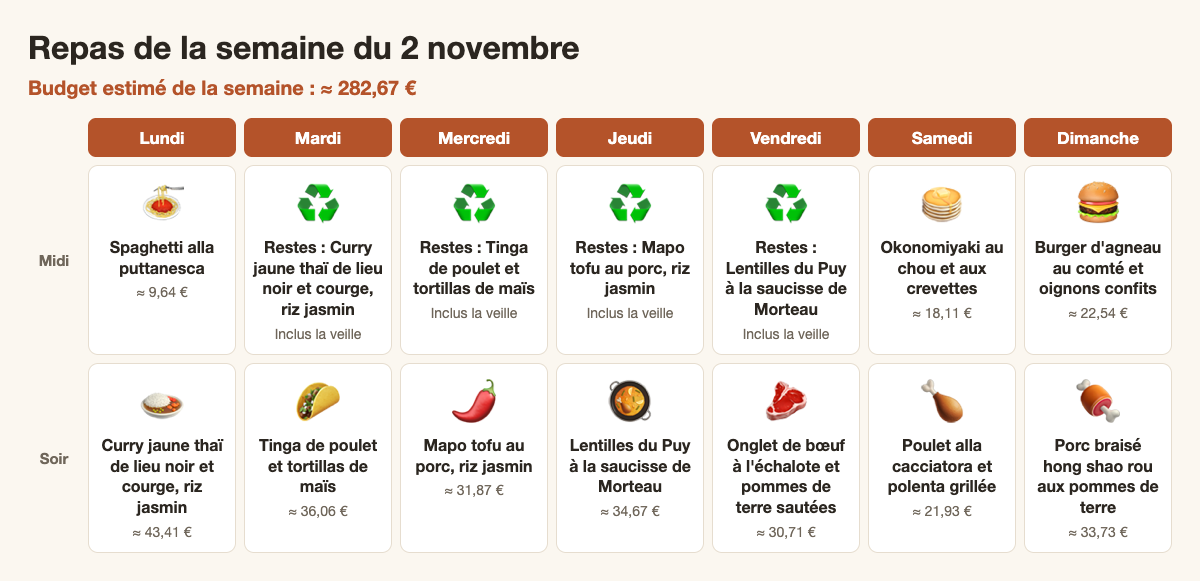
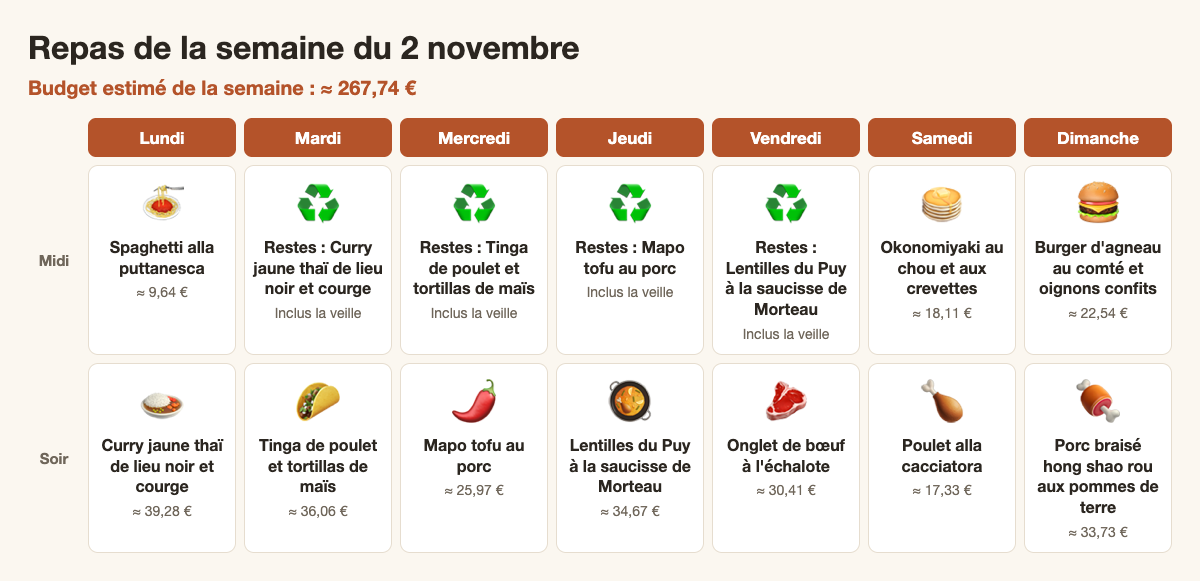
data: publication de 2026-W45

diff --git a/site/2026-W45/index.html b/site/2026-W45/index.html
@@ -4,7 +4,7 @@
 <meta charset="utf-8">
 <meta name="viewport" content="width=device-width, initial-scale=1">
 <meta name="robots" content="noindex">
-<meta name="miammiam-build" content="48275d968633">
+<meta name="miammiam-build" content="525a4e9f930c">
 <title>Semaine du 2 novembre</title>
 <style>
 :root { color-scheme: light dark; --bg: #fbf7f0; --card: #ffffff; --ink: #2b2620; --muted: #6f665a; --line: #e6ddcf; --accent: #b4532a; }
@@ -29,9 +29,9 @@ ul, ol { padding-left: 22px; margin: 6px 0; }
 <body><main><nav><a href="../">← Toutes les semaines</a></nav>
 <h1>Repas de la semaine du 2 novembre</h1>
 <img src="semaine.png" alt="Grille des repas de la semaine du 2 novembre">
-<div class="card"><strong>Budget de la semaine : ≈ 282,67 €</strong><br><strong>Courses à acheter : ≈ 267,88 €</strong><p class="meta">Prix estimés par Claude, à titre indicatif : ils varient selon le magasin.</p></div>
+<div class="card"><strong>Budget de la semaine : ≈ 267,74 €</strong><br><strong>Courses à acheter : ≈ 253,88 €</strong><p class="meta">Prix estimés par Claude, à titre indicatif : ils varient selon le magasin.</p></div>
 <h2 id="courses">Liste de courses</h2>
-<div class="card"><h3>Fruits et légumes</h3><ul><li>ail : 16 gousses (≈ 1,60 €)</li><li>betterave crue : 800 g (≈ 2,40 €)</li><li>brocoli : 1,2 kg (≈ 4,80 €)</li><li>carotte : 13 pièces (≈ 1,95 €)</li><li>céleri branche : 2 pièces (≈ 1,00 €)</li><li>chou chinois : 800 g (≈ 2,40 €)</li><li>chou pointu : 600 g (≈ 1,50 €)</li><li>chou rouge : 800 g (≈ 1,60 €)</li><li>citron vert : 8 pièces (≈ 3,20 €)</li><li>coriandre fraîche : 80 g (≈ 1,60 €)</li><li>courge butternut : 1,2 kg (≈ 3,60 €)</li><li>échalote : 6 pièces (≈ 1,50 €)</li><li>endive : 12 pièces (≈ 4,80 €)</li><li>fenouil : 3 pièces (≈ 3,60 €)</li><li>gingembre : 160 g (≈ 1,60 €)</li><li>oignon : 12 pièces (≈ 2,40 €)</li><li>oignon nouveau : 16 pièces (≈ 2,40 €)</li><li>orange : 5 pièces (≈ 2,50 €)</li><li>pak choï : 1,2 kg (≈ 6,00 €)</li><li>panais : 600 g (≈ 2,40 €)</li><li>pomme de terre : 2,6 kg (≈ 3,90 €)</li><li>romarin frais : 5 g (≈ 0,50 €)</li><li>roquette : 50 g (≈ 1,25 €)</li></ul><h3>Viandes et poissons</h3><ul><li>agneau haché : 600 g (≈ 12,00 €)</li><li>blanc de poulet : 1,4 kg (≈ 19,60 €)</li><li>cuisse de poulet : 4 pièces (≈ 10,00 €)</li><li>filet de lieu noir : 1,4 kg (≈ 25,20 €)</li><li>poitrine de porc : 1,6 kg (≈ 19,20 €)</li><li>porc haché : 500 g (≈ 5,50 €)</li><li>saucisse de morteau : 3 pièces (≈ 21,00 €)</li></ul><h3>Produits laitiers</h3><ul><li>beurre : 130 g (≈ 1,56 €)</li><li>comté : 120 g (≈ 2,16 €)</li><li>crème fraîche : 25 cl (≈ 1,00 €)</li><li>fromage blanc : 100 g (≈ 0,40 €)</li><li>œuf : 4 pièces (≈ 1,20 €)</li></ul><h3>Épicerie</h3><ul><li>bâton de cannelle : 1 pièce (≈ 0,30 €)</li><li>bonite séchée : 10 g (≈ 1,50 €)</li><li>bouillon de volaille : 80 cl (≈ 0,80 €)</li><li>cacahuète : 100 g (≈ 0,80 €)</li><li>cumin moulu : 1 c. à café (≈ 0,10 €)</li><li>dashi en poudre : 1 c. à café (≈ 0,30 €)</li><li>étoile de badiane : 3 pièces (≈ 0,60 €)</li><li>fécule de maïs : 3 c. à soupe (≈ 0,15 €)</li><li>feuille de laurier : 2 pièces (≈ 0,10 €)</li><li>graine de fenouil : 1 c. à café (≈ 0,10 €)</li><li>graine de sésame : 4 c. à soupe (≈ 0,60 €)</li><li>lait de coco : 80 cl (≈ 3,20 €)</li><li>lentille verte du puy : 800 g (≈ 4,00 €)</li><li>mayonnaise : 4 c. à soupe (≈ 0,40 €)</li><li>miel : 5 c. à soupe (≈ 1,25 €)</li><li>moutarde : 5 c. à soupe (≈ 0,50 €)</li><li>olive noire : 80 g (≈ 0,96 €)</li><li>origan séché : 3 c. à café (≈ 0,30 €)</li><li>pâte de curry jaune : 120 g (≈ 2,40 €)</li><li>pâte de miso : 3 c. à soupe (≈ 0,90 €)</li><li>pâte de piment doubanjiang : 6 c. à soupe (≈ 1,50 €)</li><li>piment chipotle en adobo : 100 g (≈ 3,00 €)</li><li>poivre de sichuan : 2 c. à café (≈ 0,60 €)</li><li>polenta instantanée : 250 g (≈ 1,25 €)</li><li>riz jasmin : 1,28 kg (≈ 3,84 €)</li><li>sauce okonomiyaki : 8 c. à soupe (≈ 2,40 €)</li><li>sauce poisson : 5 c. à soupe (≈ 0,50 €)</li><li>sauce soja : 13 c. à soupe (≈ 1,30 €)</li><li>thym séché : 2 c. à café (≈ 0,20 €)</li><li>tofu ferme : 1,6 kg (≈ 12,80 €)</li><li>tomate concassée en boîte : 1,6 kg (≈ 3,20 €)</li><li>tortilla de maïs : 24 pièces (≈ 4,80 €)</li><li>vin de shaoxing : 15 cl (≈ 1,80 €)</li><li>vinaigre de vin : 2 c. à soupe (≈ 0,06 €)</li><li>vinaigre noir : 3 c. à soupe (≈ 0,45 €)</li></ul><h3>Surgelés</h3><ul><li>crevette décortiquée : 400 g (≈ 7,20 €)</li></ul><h3>Boulangerie</h3><ul><li>pain à burger : 4 pièces (≈ 2,00 €)</li></ul><h3>Boissons</h3><ul><li>vin blanc : 15 cl (≈ 1,20 €)</li><li>vin rouge : 10 cl (≈ 0,80 €)</li></ul><h3>Boucher (à acheter vendredi)</h3><ul><li>onglet de bœuf : 800 g (≈ 22,40 €)</li></ul><h3>À vérifier au placard</h3><ul><li>ail</li><li>anchois à l'huile</li><li>câpre</li><li>farine</li><li>huile d'olive</li><li>huile neutre</li><li>olive noire</li><li>paprika fumé</li><li>piment en flocons</li><li>pois chiche en boîte</li><li>poivre</li><li>sel</li><li>spaghetti</li><li>sucre</li><li>tomate concassée en boîte</li></ul></div>
+<div class="card"><h3>Fruits et légumes</h3><ul><li>ail : 16 gousses (≈ 1,60 €)</li><li>betterave crue : 800 g (≈ 2,40 €)</li><li>carotte : 13 pièces (≈ 1,95 €)</li><li>céleri branche : 2 pièces (≈ 1,00 €)</li><li>chou pointu : 600 g (≈ 1,50 €)</li><li>chou rouge : 800 g (≈ 1,60 €)</li><li>citron vert : 6 pièces (≈ 2,40 €)</li><li>coriandre fraîche : 80 g (≈ 1,60 €)</li><li>courge butternut : 1,2 kg (≈ 3,60 €)</li><li>échalote : 6 pièces (≈ 1,50 €)</li><li>endive : 12 pièces (≈ 4,80 €)</li><li>gingembre : 160 g (≈ 1,60 €)</li><li>oignon : 12 pièces (≈ 2,40 €)</li><li>oignon nouveau : 16 pièces (≈ 2,40 €)</li><li>orange : 4 pièces (≈ 2,00 €)</li><li>pak choï : 1,2 kg (≈ 6,00 €)</li><li>panais : 1 kg (≈ 4,00 €)</li><li>pomme de terre : 1,6 kg (≈ 2,40 €)</li><li>romarin frais : 5 g (≈ 0,50 €)</li><li>roquette : 50 g (≈ 1,25 €)</li></ul><h3>Viandes et poissons</h3><ul><li>agneau haché : 600 g (≈ 12,00 €)</li><li>blanc de poulet : 1,4 kg (≈ 19,60 €)</li><li>cuisse de poulet : 4 pièces (≈ 10,00 €)</li><li>filet de lieu noir : 1,4 kg (≈ 25,20 €)</li><li>poitrine de porc : 1,6 kg (≈ 19,20 €)</li><li>porc haché : 500 g (≈ 5,50 €)</li><li>saucisse de morteau : 3 pièces (≈ 21,00 €)</li></ul><h3>Produits laitiers</h3><ul><li>beurre : 130 g (≈ 1,56 €)</li><li>comté : 120 g (≈ 2,16 €)</li><li>crème fraîche : 25 cl (≈ 1,00 €)</li><li>fromage blanc : 100 g (≈ 0,40 €)</li><li>œuf : 4 pièces (≈ 1,20 €)</li></ul><h3>Épicerie</h3><ul><li>bâton de cannelle : 1 pièce (≈ 0,30 €)</li><li>bonite séchée : 10 g (≈ 1,50 €)</li><li>bouillon de volaille : 80 cl (≈ 0,80 €)</li><li>cumin moulu : 1 c. à café (≈ 0,10 €)</li><li>dashi en poudre : 1 c. à café (≈ 0,30 €)</li><li>étoile de badiane : 3 pièces (≈ 0,60 €)</li><li>fécule de maïs : 3 c. à soupe (≈ 0,15 €)</li><li>feuille de laurier : 2 pièces (≈ 0,10 €)</li><li>graine de sésame : 1 c. à soupe (≈ 0,15 €)</li><li>lait de coco : 80 cl (≈ 3,20 €)</li><li>lentille verte du puy : 800 g (≈ 4,00 €)</li><li>mayonnaise : 4 c. à soupe (≈ 0,40 €)</li><li>miel : 5 c. à soupe (≈ 1,25 €)</li><li>moutarde : 5 c. à soupe (≈ 0,50 €)</li><li>olive noire : 80 g (≈ 0,96 €)</li><li>origan séché : 3 c. à café (≈ 0,30 €)</li><li>pâte de curry jaune : 120 g (≈ 2,40 €)</li><li>pâte de miso : 3 c. à soupe (≈ 0,90 €)</li><li>pâte de piment doubanjiang : 6 c. à soupe (≈ 1,50 €)</li><li>piment chipotle en adobo : 100 g (≈ 3,00 €)</li><li>poivre de sichuan : 2 c. à café (≈ 0,60 €)</li><li>polenta instantanée : 250 g (≈ 1,25 €)</li><li>riz jasmin : 1,28 kg (≈ 3,84 €)</li><li>sauce okonomiyaki : 8 c. à soupe (≈ 2,40 €)</li><li>sauce poisson : 4 c. à soupe (≈ 0,40 €)</li><li>sauce soja : 12 c. à soupe (≈ 1,20 €)</li><li>thym séché : 2 c. à café (≈ 0,20 €)</li><li>tofu ferme : 1,6 kg (≈ 12,80 €)</li><li>tomate concassée en boîte : 1,6 kg (≈ 3,20 €)</li><li>tortilla de maïs : 24 pièces (≈ 4,80 €)</li><li>vin de shaoxing : 15 cl (≈ 1,80 €)</li><li>vinaigre de vin : 2 c. à soupe (≈ 0,06 €)</li></ul><h3>Surgelés</h3><ul><li>crevette décortiquée : 400 g (≈ 7,20 €)</li></ul><h3>Boulangerie</h3><ul><li>pain à burger : 4 pièces (≈ 2,00 €)</li></ul><h3>Boissons</h3><ul><li>vin blanc : 15 cl (≈ 1,20 €)</li><li>vin rouge : 10 cl (≈ 0,80 €)</li></ul><h3>Boucher (à acheter vendredi)</h3><ul><li>onglet de bœuf : 800 g (≈ 22,40 €)</li></ul><h3>À vérifier au placard</h3><ul><li>ail</li><li>anchois à l'huile</li><li>câpre</li><li>farine</li><li>huile d'olive</li><li>huile neutre</li><li>olive noire</li><li>paprika fumé</li><li>piment en flocons</li><li>pois chiche en boîte</li><li>poivre</li><li>sel</li><li>spaghetti</li><li>sucre</li><li>tomate concassée en boîte</li></ul></div>
 <h2>Lundi</h2><article class="recipe">
 <h3>🍝 Spaghetti alla puttanesca</h3>
 <p class="meta">Midi · Cuisine italienne · 25 min · 4 personnes</p>
@@ -40,14 +40,14 @@ ul, ol { padding-left: 22px; margin: 6px 0; }
 <strong>Ingrédients</strong><ul><li>spaghetti : 400 g (≈ 0,80 €)</li><li>tomate concassée en boîte : 800 g (≈ 1,60 €)</li><li>anchois à l'huile : 50 g (≈ 2,00 €)</li><li>olive noire : 120 g (≈ 1,44 €)</li><li>câpre : 2 c. à soupe (≈ 0,50 €)</li><li>ail : 3 gousses (≈ 0,30 €)</li><li>piment en flocons : 1 c. à café (≈ 0,15 €)</li><li>pois chiche en boîte : 480 g (≈ 1,44 €)</li><li>paprika fumé : 2 c. à café (≈ 0,40 €)</li><li>huile d'olive : 5 c. à soupe (≈ 1,00 €)</li><li>sel : 1 c. à café (≈ 0,01 €)</li></ul>
 <strong>Préparation</strong><ol><li>Préchauffer le four à 220 °C. Égoutter et sécher les pois chiches, les mélanger avec 2 c. à soupe d'huile d'olive, le paprika fumé et une pincée de sel, puis les enfourner 20 minutes sur une plaque, en les remuant à mi-cuisson.</li><li>Porter à ébullition une grande casserole d'eau salée.</li><li>Dans une sauteuse, chauffer 3 c. à soupe d'huile d'olive avec l'ail émincé, le piment et les anchois, 2 minutes, jusqu'à ce que les anchois fondent.</li><li>Ajouter les tomates, les olives coupées en deux et les câpres, puis laisser mijoter 12 minutes à feu moyen.</li><li>Cuire les spaghetti al dente, les égoutter en gardant une louche d'eau de cuisson, puis les finir 1 minute dans la sauce, en détendant avec un peu de cette eau.</li><li>Servir avec les pois chiches croustillants à côté.</li></ol>
 </article><article class="recipe">
-<h3>🍛 Curry jaune thaï de lieu noir et courge, riz jasmin</h3>
+<h3>🍛 Curry jaune thaï de lieu noir et courge</h3>
 <p class="meta">Soir · Cuisine thaïe · 30 min · 8 portions, dont 4 pour les restes</p>
-<p><strong>Accompagnement :</strong> Chou chinois mariné au citron vert et aux cacahuètes</p>
-<p><strong>Prix du repas : ≈ 43,41 €</strong></p>
-<strong>Ingrédients</strong><ul><li>filet de lieu noir : 1,4 kg (≈ 25,20 €)</li><li>courge butternut : 1,2 kg (≈ 3,60 €)</li><li>oignon : 2 pièces (≈ 0,40 €)</li><li>pâte de curry jaune : 120 g (≈ 2,40 €)</li><li>lait de coco : 80 cl (≈ 3,20 €)</li><li>sauce poisson : 5 c. à soupe (≈ 0,50 €)</li><li>sucre : 50 g (≈ 0,08 €)</li><li>citron vert : 5 pièces (≈ 2,00 €)</li><li>coriandre fraîche : 40 g (≈ 0,80 €)</li><li>riz jasmin : 640 g (≈ 1,92 €)</li><li>chou chinois : 800 g (≈ 2,40 €)</li><li>cacahuète : 100 g (≈ 0,80 €)</li><li>huile neutre : 2 c. à soupe (≈ 0,10 €)</li><li>sel : 1 c. à café (≈ 0,01 €)</li></ul>
-<strong>Préparation</strong><ol><li>Émincer finement le chou chinois. Le mélanger avec le jus de 2 citrons verts, 20 g de sucre, 1 c. à soupe de sauce poisson et les cacahuètes concassées, puis réserver au frais.</li><li>Cuire le riz jasmin selon le paquet (environ 12 minutes).</li><li>Éplucher la courge et la couper en cubes de 2 cm. Émincer les oignons.</li><li>Dans une grande cocotte, faire revenir les oignons 3 minutes dans l'huile, puis ajouter la pâte de curry et remuer 1 minute.</li><li>Verser le lait de coco, 200 ml d'eau, le reste de sauce poisson et 30 g de sucre. Ajouter la courge et cuire 12 minutes à frémissement.</li><li>Ajouter le lieu noir coupé en gros morceaux et cuire 5 minutes sans trop remuer. Finir avec le jus de 3 citrons verts et la coriandre.</li><li>Servir 4 portions avec le riz et le chou, et garder 4 portions au frais pour le lendemain midi.</li></ol>
+<p><strong>Accompagnement :</strong> Riz jasmin</p>
+<p><strong>Prix du repas : ≈ 39,28 €</strong></p>
+<strong>Ingrédients</strong><ul><li>filet de lieu noir : 1,4 kg (≈ 25,20 €)</li><li>courge butternut : 1,2 kg (≈ 3,60 €)</li><li>oignon : 2 pièces (≈ 0,40 €)</li><li>pâte de curry jaune : 120 g (≈ 2,40 €)</li><li>lait de coco : 80 cl (≈ 3,20 €)</li><li>sauce poisson : 4 c. à soupe (≈ 0,40 €)</li><li>sucre : 30 g (≈ 0,05 €)</li><li>citron vert : 3 pièces (≈ 1,20 €)</li><li>coriandre fraîche : 40 g (≈ 0,80 €)</li><li>riz jasmin : 640 g (≈ 1,92 €)</li><li>huile neutre : 2 c. à soupe (≈ 0,10 €)</li><li>sel : 1 c. à café (≈ 0,01 €)</li></ul>
+<strong>Préparation</strong><ol><li>Cuire le riz jasmin selon le paquet (environ 12 minutes).</li><li>Éplucher la courge et la couper en cubes de 2 cm. Émincer les oignons.</li><li>Dans une grande cocotte, faire revenir les oignons 3 minutes dans l'huile, puis ajouter la pâte de curry et remuer 1 minute.</li><li>Verser le lait de coco, 200 ml d'eau, la sauce poisson et le sucre. Ajouter la courge et cuire 12 minutes à frémissement.</li><li>Ajouter le lieu noir coupé en gros morceaux et cuire 5 minutes sans trop remuer. Finir avec le jus de 3 citrons verts et la coriandre.</li><li>Servir 4 portions avec le riz, et garder 4 portions au frais pour le lendemain midi.</li></ol>
 </article><h2>Mardi</h2><article class="recipe">
-<h3>♻ Restes : Curry jaune thaï de lieu noir et courge, riz jasmin</h3>
+<h3>♻ Restes : Curry jaune thaï de lieu noir et courge</h3>
 <p class="meta">Midi · Restes du lundi soir, à réchauffer</p>
 </article><article class="recipe">
 <h3>🌮 Tinga de poulet et tortillas de maïs</h3>
@@ -60,14 +60,14 @@ ul, ol { padding-left: 22px; margin: 6px 0; }
 <h3>♻ Restes : Tinga de poulet et tortillas de maïs</h3>
 <p class="meta">Midi · Restes du mardi soir, à réchauffer</p>
 </article><article class="recipe">
-<h3>🌶 Mapo tofu au porc, riz jasmin</h3>
+<h3>🌶 Mapo tofu au porc</h3>
 <p class="meta">Soir · Cuisine chinoise · 30 min · 8 portions, dont 4 pour les restes</p>
-<p><strong>Accompagnement :</strong> Brocoli rôti au sésame et au vinaigre noir</p>
-<p><strong>Prix du repas : ≈ 31,87 €</strong></p>
-<strong>Ingrédients</strong><ul><li>tofu ferme : 1,6 kg (≈ 12,80 €)</li><li>porc haché : 500 g (≈ 5,50 €)</li><li>pâte de piment doubanjiang : 6 c. à soupe (≈ 1,50 €)</li><li>ail : 6 gousses (≈ 0,60 €)</li><li>gingembre : 60 g (≈ 0,60 €)</li><li>oignon nouveau : 6 pièces (≈ 0,90 €)</li><li>poivre de Sichuan : 2 c. à café (≈ 0,60 €)</li><li>bouillon de volaille : 80 cl (≈ 0,80 €)</li><li>fécule de maïs : 3 c. à soupe (≈ 0,15 €)</li><li>sauce soja : 5 c. à soupe (≈ 0,50 €)</li><li>riz jasmin : 640 g (≈ 1,92 €)</li><li>brocoli : 1,2 kg (≈ 4,80 €)</li><li>graine de sésame : 3 c. à soupe (≈ 0,45 €)</li><li>vinaigre noir : 3 c. à soupe (≈ 0,45 €)</li><li>huile neutre : 6 c. à soupe (≈ 0,30 €)</li></ul>
-<strong>Préparation</strong><ol><li>Préchauffer le four à 220 °C. Détailler le brocoli en fleurettes, les mélanger avec 2 c. à soupe d'huile et les rôtir 18 minutes.</li><li>Cuire le riz jasmin selon le paquet. Couper le tofu en cubes de 2 cm. Hacher l'ail et le gingembre, et émincer les oignons nouveaux.</li><li>Faire griller le poivre de Sichuan 1 minute à sec, puis le moudre.</li><li>Dans un grand wok, chauffer 4 c. à soupe d'huile et faire dorer le porc 5 minutes. Ajouter le doubanjiang, l'ail et le gingembre, et remuer 1 minute.</li><li>Verser le bouillon et 4 c. à soupe de sauce soja, ajouter le tofu et laisser frémir 8 minutes sans trop remuer.</li><li>Délayer la fécule dans 4 c. à soupe d'eau froide, l'ajouter et laisser épaissir 1 minute. Finir avec le poivre de Sichuan et les oignons nouveaux.</li><li>Arroser le brocoli du vinaigre noir et de 1 c. à soupe de sauce soja, et le parsemer de sésame. Servir 4 portions et garder 4 portions pour le lendemain midi.</li></ol>
+<p><strong>Accompagnement :</strong> Riz jasmin</p>
+<p><strong>Prix du repas : ≈ 25,97 €</strong></p>
+<strong>Ingrédients</strong><ul><li>tofu ferme : 1,6 kg (≈ 12,80 €)</li><li>porc haché : 500 g (≈ 5,50 €)</li><li>pâte de piment doubanjiang : 6 c. à soupe (≈ 1,50 €)</li><li>ail : 6 gousses (≈ 0,60 €)</li><li>gingembre : 60 g (≈ 0,60 €)</li><li>oignon nouveau : 6 pièces (≈ 0,90 €)</li><li>poivre de Sichuan : 2 c. à café (≈ 0,60 €)</li><li>bouillon de volaille : 80 cl (≈ 0,80 €)</li><li>fécule de maïs : 3 c. à soupe (≈ 0,15 €)</li><li>sauce soja : 4 c. à soupe (≈ 0,40 €)</li><li>riz jasmin : 640 g (≈ 1,92 €)</li><li>huile neutre : 4 c. à soupe (≈ 0,20 €)</li></ul>
+<strong>Préparation</strong><ol><li>Cuire le riz jasmin selon le paquet. Couper le tofu en cubes de 2 cm. Hacher l'ail et le gingembre, et émincer les oignons nouveaux.</li><li>Faire griller le poivre de Sichuan 1 minute à sec, puis le moudre.</li><li>Dans un grand wok, chauffer 4 c. à soupe d'huile et faire dorer le porc 5 minutes. Ajouter le doubanjiang, l'ail et le gingembre, et remuer 1 minute.</li><li>Verser le bouillon et 4 c. à soupe de sauce soja, ajouter le tofu et laisser frémir 8 minutes sans trop remuer.</li><li>Délayer la fécule dans 4 c. à soupe d'eau froide, l'ajouter et laisser épaissir 1 minute. Finir avec le poivre de Sichuan et les oignons nouveaux.</li><li>Servir 4 portions avec le riz, et garder 4 portions au frais pour le lendemain midi.</li></ol>
 </article><h2>Jeudi</h2><article class="recipe">
-<h3>♻ Restes : Mapo tofu au porc, riz jasmin</h3>
+<h3>♻ Restes : Mapo tofu au porc</h3>
 <p class="meta">Midi · Restes du mercredi soir, à réchauffer</p>
 </article><article class="recipe">
 <h3>🥘 Lentilles du Puy à la saucisse de Morteau</h3>
@@ -80,12 +80,12 @@ ul, ol { padding-left: 22px; margin: 6px 0; }
 <h3>♻ Restes : Lentilles du Puy à la saucisse de Morteau</h3>
 <p class="meta">Midi · Restes du jeudi soir, à réchauffer</p>
 </article><article class="recipe">
-<h3>🥩 Onglet de bœuf à l'échalote et pommes de terre sautées</h3>
+<h3>🥩 Onglet de bœuf à l'échalote</h3>
 <p class="meta">Soir · Cuisine française · 30 min · 4 personnes</p>
 <p><strong>Accompagnement :</strong> Panais rôtis au miel et au thym</p>
-<p><strong>Prix du repas : ≈ 30,71 €</strong></p>
-<strong>Ingrédients</strong><ul><li>onglet de bœuf : 800 g (≈ 22,40 €)</li><li>échalote : 6 pièces (≈ 1,50 €)</li><li>vin rouge : 10 cl (≈ 0,80 €)</li><li>beurre : 50 g (≈ 0,60 €)</li><li>pomme de terre : 1 kg (≈ 1,50 €)</li><li>panais : 600 g (≈ 2,40 €)</li><li>miel : 2 c. à soupe (≈ 0,50 €)</li><li>thym séché : 1 c. à café (≈ 0,10 €)</li><li>huile d'olive : 4 c. à soupe (≈ 0,80 €)</li><li>sel : 1 c. à café (≈ 0,01 €)</li><li>poivre : 1 c. à café (≈ 0,10 €)</li></ul>
-<strong>Préparation</strong><ol><li>Préchauffer le four à 220 °C. Couper les panais en bâtonnets, les mélanger avec 1 c. à soupe d'huile d'olive, le miel et le thym, puis les rôtir 22 minutes.</li><li>Couper les pommes de terre en petits cubes. Les faire sauter 20 minutes à feu moyen-vif dans 3 c. à soupe d'huile d'olive, en les remuant souvent. Saler.</li><li>Sortir l'onglet du réfrigérateur. Le saisir 3 à 4 minutes par face dans une poêle très chaude avec 20 g de beurre, puis le laisser reposer sous une feuille de papier aluminium.</li><li>Dans la même poêle, faire fondre les échalotes émincées 3 minutes. Déglacer au vin rouge, réduire de moitié, puis ajouter 30 g de beurre.</li><li>Trancher l'onglet, napper de sauce, poivrer et servir avec les pommes de terre et les panais.</li></ol>
+<p><strong>Prix du repas : ≈ 30,41 €</strong></p>
+<strong>Ingrédients</strong><ul><li>onglet de bœuf : 800 g (≈ 22,40 €)</li><li>échalote : 6 pièces (≈ 1,50 €)</li><li>vin rouge : 10 cl (≈ 0,80 €)</li><li>beurre : 50 g (≈ 0,60 €)</li><li>panais : 1 kg (≈ 4,00 €)</li><li>miel : 2 c. à soupe (≈ 0,50 €)</li><li>thym séché : 1 c. à café (≈ 0,10 €)</li><li>huile d'olive : 2 c. à soupe (≈ 0,40 €)</li><li>sel : 1 c. à café (≈ 0,01 €)</li><li>poivre : 1 c. à café (≈ 0,10 €)</li></ul>
+<strong>Préparation</strong><ol><li>Préchauffer le four à 220 °C. Couper les panais en bâtonnets, les mélanger avec 2 c. à soupe d'huile d'olive, le miel, le thym et le sel, puis les rôtir 22 minutes.</li><li>Sortir l'onglet du réfrigérateur. Le saisir 3 à 4 minutes par face dans une poêle très chaude avec 20 g de beurre, puis le laisser reposer sous une feuille de papier aluminium.</li><li>Dans la même poêle, faire fondre les échalotes émincées 3 minutes. Déglacer au vin rouge, réduire de moitié, puis ajouter 30 g de beurre.</li><li>Trancher l'onglet, napper de sauce, poivrer et servir avec les panais.</li></ol>
 </article><h2>Samedi</h2><article class="recipe">
 <h3>🥞 Okonomiyaki au chou et aux crevettes</h3>
 <p class="meta">Midi · Cuisine japonaise · 45 min · 4 personnes</p>
@@ -94,12 +94,12 @@ ul, ol { padding-left: 22px; margin: 6px 0; }
 <strong>Ingrédients</strong><ul><li>chou pointu : 600 g (≈ 1,50 €)</li><li>farine : 250 g (≈ 0,25 €)</li><li>œuf : 4 pièces (≈ 1,20 €)</li><li>dashi en poudre : 1 c. à café (≈ 0,30 €)</li><li>crevette décortiquée : 400 g (≈ 7,20 €)</li><li>oignon nouveau : 4 pièces (≈ 0,60 €)</li><li>sauce okonomiyaki : 8 c. à soupe (≈ 2,40 €)</li><li>mayonnaise : 4 c. à soupe (≈ 0,40 €)</li><li>bonite séchée : 10 g (≈ 1,50 €)</li><li>carotte : 8 pièces (≈ 1,20 €)</li><li>pâte de miso : 3 c. à soupe (≈ 0,90 €)</li><li>miel : 1 c. à soupe (≈ 0,25 €)</li><li>graine de sésame : 1 c. à soupe (≈ 0,15 €)</li><li>huile neutre : 5 c. à soupe (≈ 0,25 €)</li><li>sel : 1 c. à café (≈ 0,01 €)</li></ul>
 <strong>Préparation</strong><ol><li>Préchauffer le four à 200 °C. Couper les carottes en deux dans la longueur. Mélanger le miso, le miel et 1 c. à soupe d'huile, en enrober les carottes et les rôtir 30 minutes. Parsemer de sésame à la sortie.</li><li>Décongeler les crevettes et les éponger. Émincer finement le chou et les oignons nouveaux.</li><li>Mélanger la farine, le dashi, 250 ml d'eau et les œufs. Incorporer le chou, les oignons nouveaux, les crevettes et une pincée de sel.</li><li>Chauffer 1 c. à soupe d'huile dans une poêle. Y verser un quart de la pâte, former une galette épaisse et cuire 5 minutes à couvert à feu moyen.</li><li>Retourner la galette et la cuire encore 5 minutes. Recommencer avec le reste de la pâte, en gardant les galettes au chaud.</li><li>Napper de sauce okonomiyaki et de mayonnaise, parsemer de bonite séchée et servir avec les carottes.</li></ol>
 </article><article class="recipe">
-<h3>🍗 Poulet alla cacciatora et polenta grillée</h3>
-<p class="meta">Soir · Cuisine italienne · 80 min · 4 personnes</p>
-<p><strong>Accompagnement :</strong> Fenouil rôti à l'orange et aux graines de fenouil</p>
-<p><strong>Prix du repas : ≈ 21,93 €</strong></p>
-<strong>Ingrédients</strong><ul><li>cuisse de poulet : 4 pièces (≈ 10,00 €)</li><li>tomate concassée en boîte : 400 g (≈ 0,80 €)</li><li>vin blanc : 15 cl (≈ 1,20 €)</li><li>oignon : 1 pièce (≈ 0,20 €)</li><li>carotte : 1 pièce (≈ 0,15 €)</li><li>céleri branche : 2 pièces (≈ 1,00 €)</li><li>ail : 2 gousses (≈ 0,20 €)</li><li>romarin frais : 5 g (≈ 0,50 €)</li><li>olive noire : 80 g (≈ 0,96 €)</li><li>polenta instantanée : 250 g (≈ 1,25 €)</li><li>beurre : 30 g (≈ 0,36 €)</li><li>fenouil : 3 pièces (≈ 3,60 €)</li><li>orange : 1 pièce (≈ 0,50 €)</li><li>graine de fenouil : 1 c. à café (≈ 0,10 €)</li><li>huile d'olive : 5 c. à soupe (≈ 1,00 €)</li><li>sel : 1 c. à café (≈ 0,01 €)</li><li>poivre : 1 c. à café (≈ 0,10 €)</li></ul>
-<strong>Préparation</strong><ol><li>Cuire la polenta dans 1 litre d'eau salée selon le paquet, ajouter le beurre, l'étaler sur 2 cm dans un plat huilé et la laisser prendre au frais.</li><li>Faire dorer les cuisses de poulet 8 minutes dans une cocotte avec 2 c. à soupe d'huile d'olive, puis les réserver.</li><li>Faire revenir 5 minutes l'oignon, la carotte et le céleri hachés, puis ajouter l'ail et le romarin. Déglacer au vin blanc et laisser réduire 3 minutes.</li><li>Ajouter les tomates, les olives et le poulet. Saler, poivrer, couvrir et laisser mijoter 40 minutes.</li><li>Préchauffer le four à 200 °C. Couper le fenouil en quartiers, l'arroser de 2 c. à soupe d'huile d'olive et du jus de l'orange, ajouter les graines et un peu de sel, puis rôtir 35 minutes.</li><li>Couper la polenta en rectangles et les faire griller 3 minutes par face dans une poêle avec 1 c. à soupe d'huile d'olive. Servir avec le poulet et le fenouil.</li></ol>
+<h3>🍗 Poulet alla cacciatora</h3>
+<p class="meta">Soir · Cuisine italienne · 70 min · 4 personnes</p>
+<p><strong>Accompagnement :</strong> Polenta grillée</p>
+<p><strong>Prix du repas : ≈ 17,33 €</strong></p>
+<strong>Ingrédients</strong><ul><li>cuisse de poulet : 4 pièces (≈ 10,00 €)</li><li>tomate concassée en boîte : 400 g (≈ 0,80 €)</li><li>vin blanc : 15 cl (≈ 1,20 €)</li><li>oignon : 1 pièce (≈ 0,20 €)</li><li>carotte : 1 pièce (≈ 0,15 €)</li><li>céleri branche : 2 pièces (≈ 1,00 €)</li><li>ail : 2 gousses (≈ 0,20 €)</li><li>romarin frais : 5 g (≈ 0,50 €)</li><li>olive noire : 80 g (≈ 0,96 €)</li><li>polenta instantanée : 250 g (≈ 1,25 €)</li><li>beurre : 30 g (≈ 0,36 €)</li><li>huile d'olive : 3 c. à soupe (≈ 0,60 €)</li><li>sel : 1 c. à café (≈ 0,01 €)</li><li>poivre : 1 c. à café (≈ 0,10 €)</li></ul>
+<strong>Préparation</strong><ol><li>Cuire la polenta dans 1 litre d'eau salée selon le paquet, ajouter le beurre, l'étaler sur 2 cm dans un plat huilé et la laisser prendre au frais.</li><li>Faire dorer les cuisses de poulet 8 minutes dans une cocotte avec 2 c. à soupe d'huile d'olive, puis les réserver.</li><li>Faire revenir 5 minutes l'oignon, la carotte et le céleri hachés, puis ajouter l'ail et le romarin. Déglacer au vin blanc et laisser réduire 3 minutes.</li><li>Ajouter les tomates, les olives et le poulet. Saler, poivrer, couvrir et laisser mijoter 40 minutes.</li><li>Couper la polenta en rectangles et les faire griller 3 minutes par face dans une poêle avec 1 c. à soupe d'huile d'olive. Servir avec le poulet.</li></ol>
 </article><h2>Dimanche</h2><article class="recipe">
 <h3>🍔 Burger d'agneau au comté et oignons confits</h3>
 <p class="meta">Midi · Cuisine burger · 70 min · 4 personnes</p>
